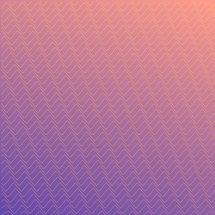
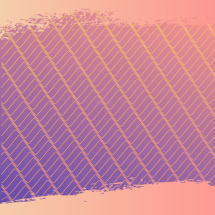
minor updates

diff --git a/src/pages/adaptations.js b/src/pages/adaptations.js
@@ -1484,10 +1484,10 @@ export const allAdaptations = [
       },
       insertedItems: [
         {
-          id: 402,
+          id: 502,
           type: "object",
-          width: 994.5625,
-          height: 994.5625,
+          width: 994.5494186046512,
+          height: 994.5494186046512,
           showIframe: true,
           adaptation: gradientWaves,
           configValues: {
@@ -1499,7 +1499,27 @@ export const allAdaptations = [
             fill: false,
             randomValues: []
           },
-          position: { left: 3.28125, top: 4.25 }
+          position: { left: 6.592607973421927, top: 7.552948504983389 }
+        },
+        {
+          id: 102,
+          type: "object",
+          width: 1898.671096345515,
+          height: 378.7375415282392,
+          showIframe: true,
+          adaptation: svgs[3],
+          configValues: { palette: ["#F1EAB9", "#FF8C8C"] },
+          position: { left: -611.295681063123, top: 823.9202657807309 }
+        },
+        {
+          id: 103,
+          type: "object",
+          width: 1724.2524916943523,
+          height: 343.8538205980067,
+          showIframe: true,
+          adaptation: svgs[3],
+          configValues: { palette: ["#F1EAB9", "#FF8C8C"] },
+          position: { left: -511.6279069767442, top: -124.58471760797343 }
         }
       ]
     }
@@ -1560,42 +1580,42 @@ export const allAdaptations = [
     initState: {
       size: { width: 1000, height: 1000 },
       config: {
-        palette: ["#7be4da", "#094a6f"],
+        palette: ["#7be4da", "#cefbee"],
         direction: "custom_angle",
         angle: 200
       },
       insertedItems: [
         {
-          id: 104,
+          id: 204,
           type: "object",
-          width: 996,
-          height: 992,
+          width: 995.9877938517178,
+          height: 991.9755877034357,
           showIframe: true,
           adaptation: simpleRipple,
           configValues: {
-            palette: ["#7be4da", "#094a6f"],
+            palette: ["#7be4da", "#015079"],
             itemsNum: 47,
             strokeWidth: 1,
             radius: 100,
             fullyFitInside: true
           },
-          position: { left: 1, top: 2 }
+          position: { left: 4.605560578661844, top: 5.594484629294755 }
         },
         {
-          id: 102,
+          id: 202,
           type: "object",
-          width: 549,
-          height: 563,
+          width: 981.9168173598553,
+          height: 987.3417721518987,
           showIframe: true,
           adaptation: simpleRipple,
           configValues: {
-            palette: ["#7be4da", "#094a6f"],
-            itemsNum: 33,
-            strokeWidth: 18,
+            palette: ["#7be4da", "#fbfdff"],
+            itemsNum: 2,
+            strokeWidth: 21,
             radius: 100,
             fullyFitInside: true
           },
-          position: { left: 223, top: 214 }
+          position: { left: 11.415009041591318, top: 7.826627486437612 }
         }
       ]
     }

diff --git a/src/pages/backgroundsList.js b/src/pages/backgroundsList.js
@@ -25,7 +25,7 @@ export default [
   37,
   10,
   11,
-  60,
+  // 60,
   12,
   13,
   14,
